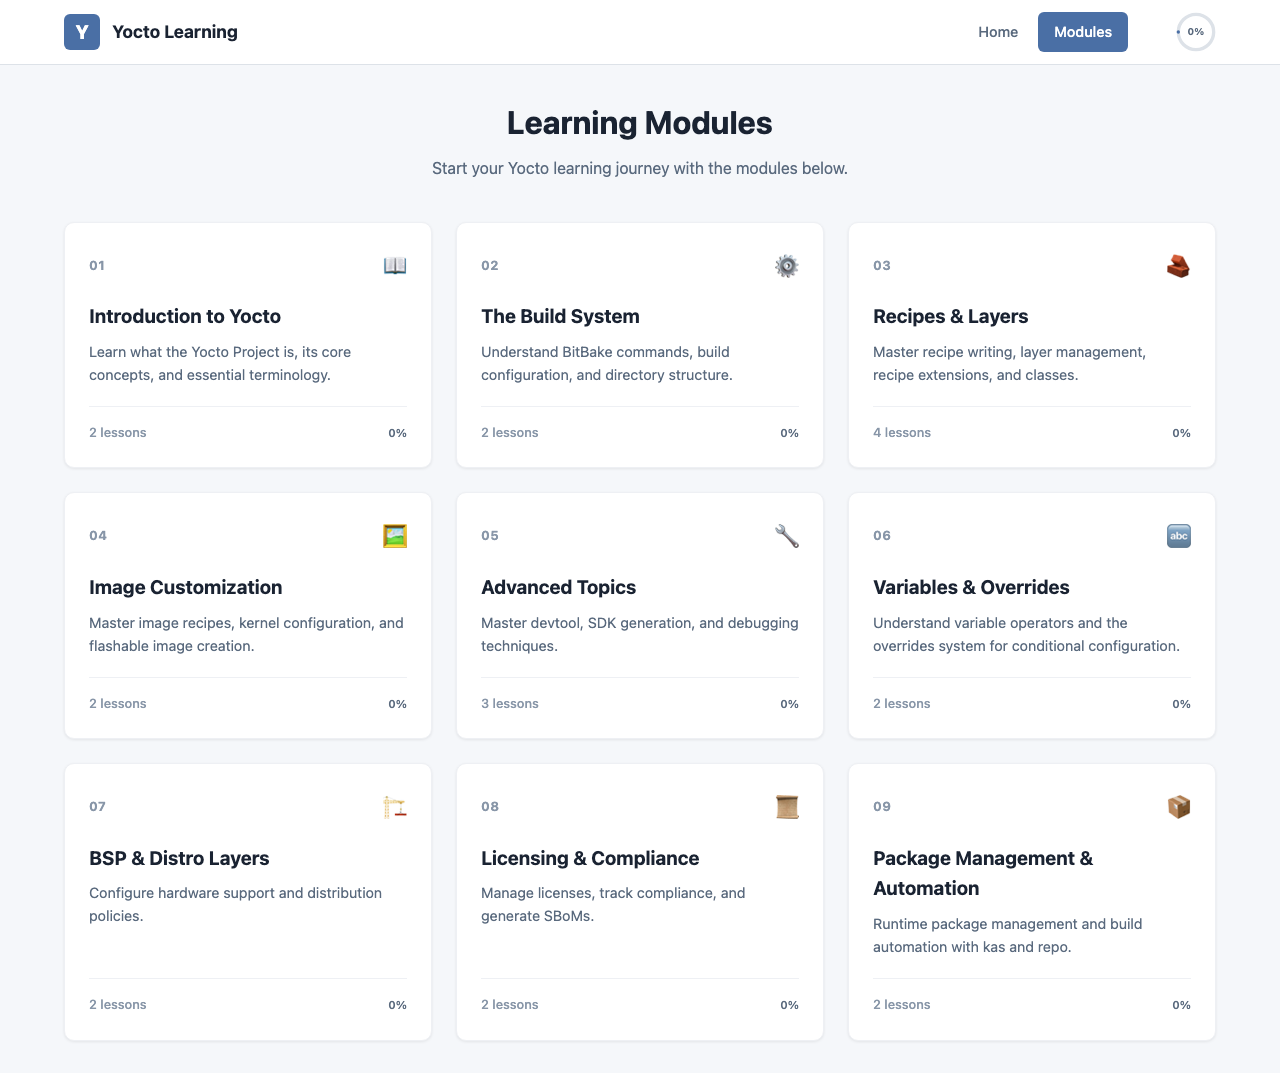
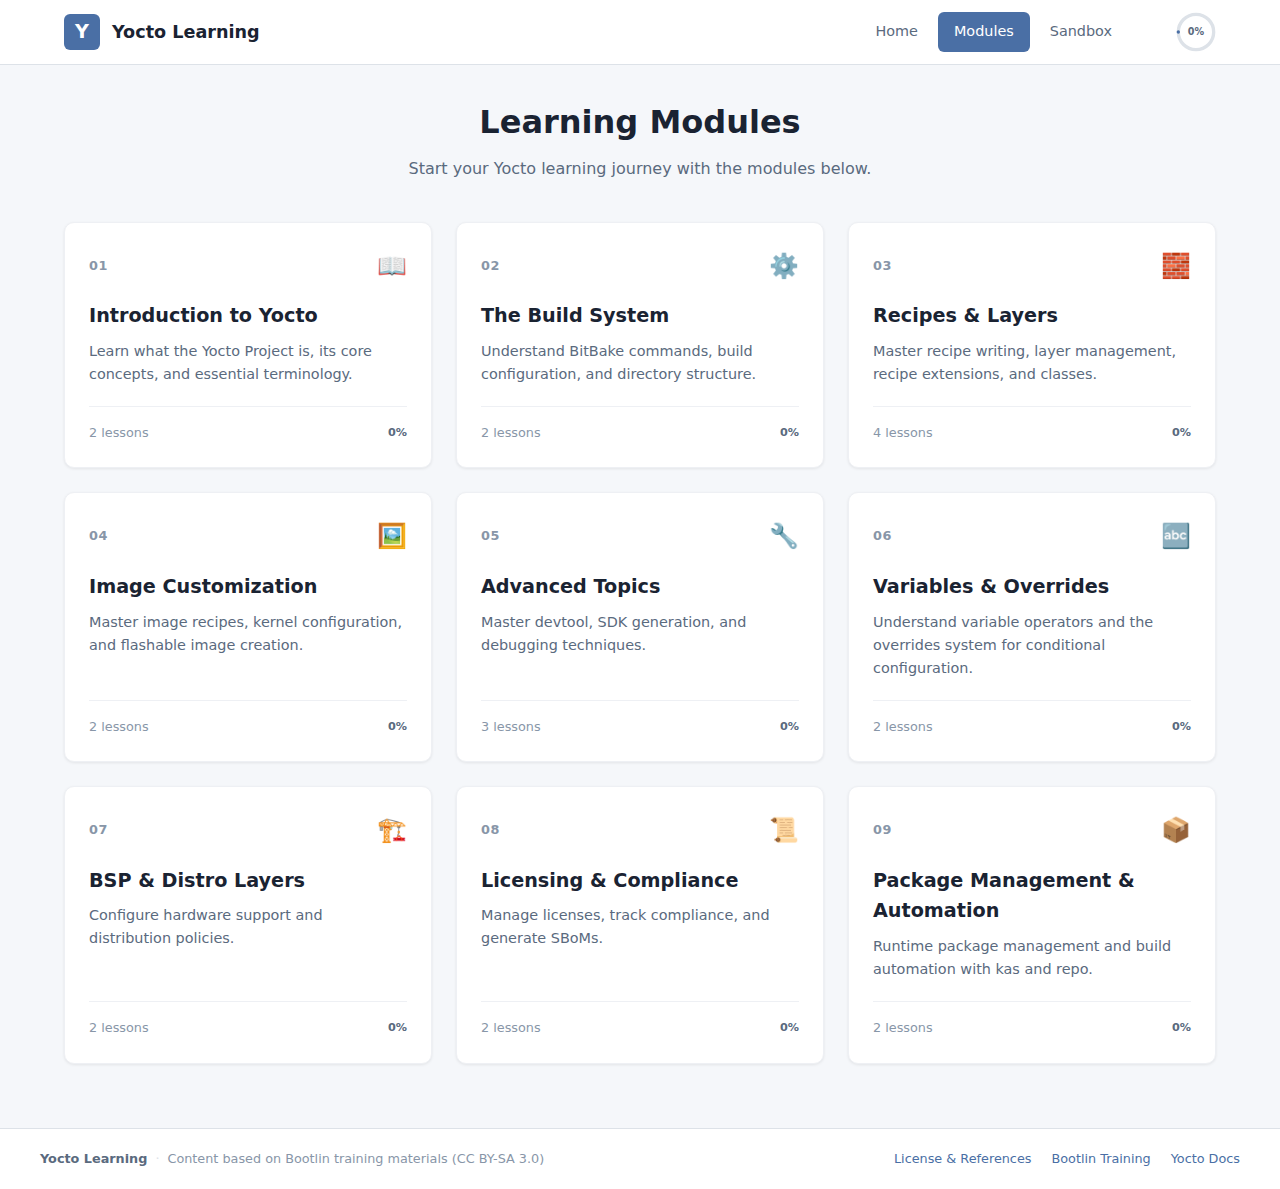
Update README and screenshots with Bootlin attribution
- Add License section to README crediting Bootlin (CC BY-SA 3.0)
- Retake all screenshots showing updated footer with Bootlin credit
- Add About page screenshot

https://claude.ai/code/session_013Pxoqk7x9wnHKFdQQsiQ9d

diff --git a/README.md b/README.md
@@ -1,6 +1,6 @@
 # Yocto Learning App
 
-An interactive learning platform for the Yocto Project, featuring structured lessons, quizzes, and progress tracking. Built with React + Vite and deployed via Docker Compose.
+An interactive learning platform for the Yocto Project, built with React + Vite and deployed via Docker Compose. The educational content is primarily derived from [Bootlin's Yocto training materials](https://bootlin.com/training/yocto/) (CC BY-SA 3.0).
 
 ## Features
 
@@ -22,6 +22,9 @@ An interactive learning platform for the Yocto Project, featuring structured les
 
 ### Lesson Page
 ![Lesson Page](docs/images/lesson.png)
+
+### About / License
+![About Page](docs/images/about.png)
 
 ## Getting Started with Docker Compose
 
@@ -73,3 +76,10 @@ The dev server starts at `http://localhost:5173` by default.
 - **Routing:** React Router (HashRouter)
 - **Deployment:** Docker (multi-stage build) + Nginx
 - **Styling:** Plain CSS (no UI framework)
+
+## License
+
+- **Application source code** is licensed under the [MIT License](LICENSE).
+- **Educational content** (lessons, quizzes, exercises) is derived from [Bootlin's Yocto training materials](https://bootlin.com/training/yocto/) and licensed under [CC BY-SA 3.0](https://creativecommons.org/licenses/by-sa/3.0/). Copyright 2004-2025 [Bootlin](https://bootlin.com).
+
+See the [About page](src/pages/About.jsx) or the [LICENSE](LICENSE) file for full details.
